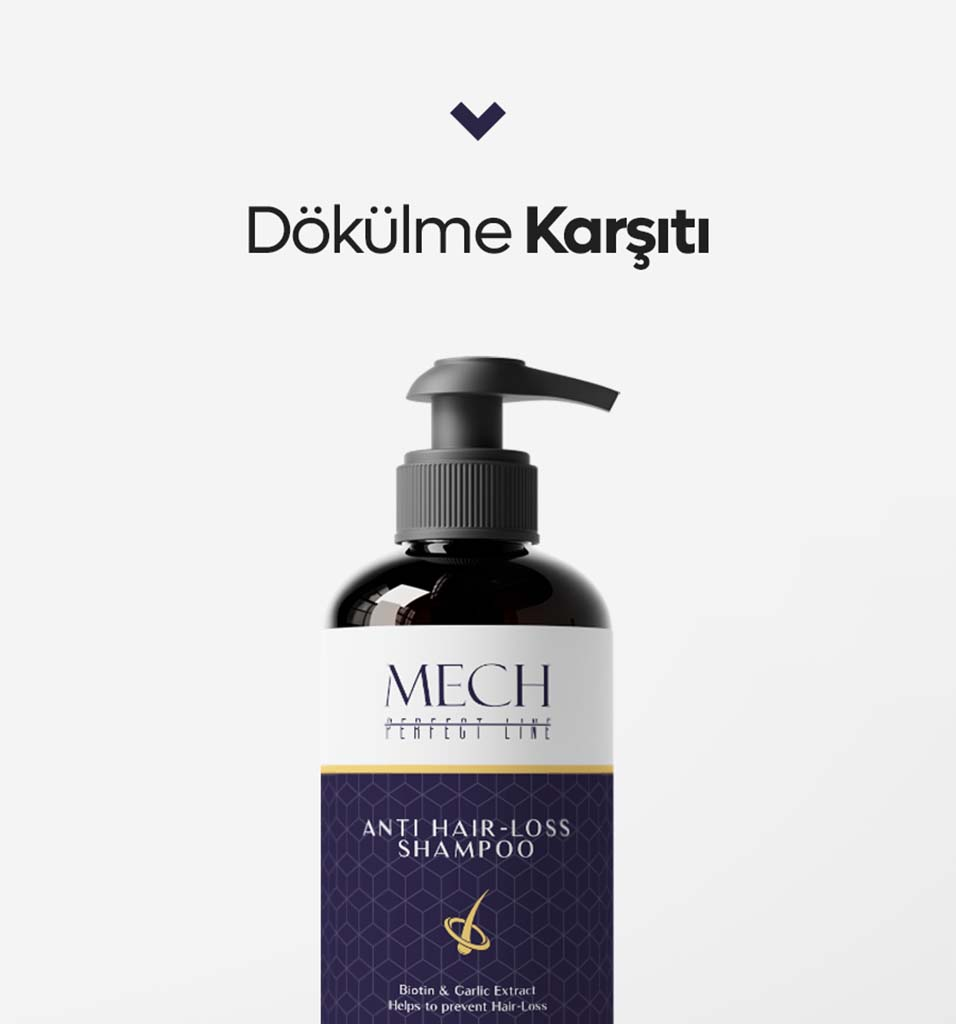
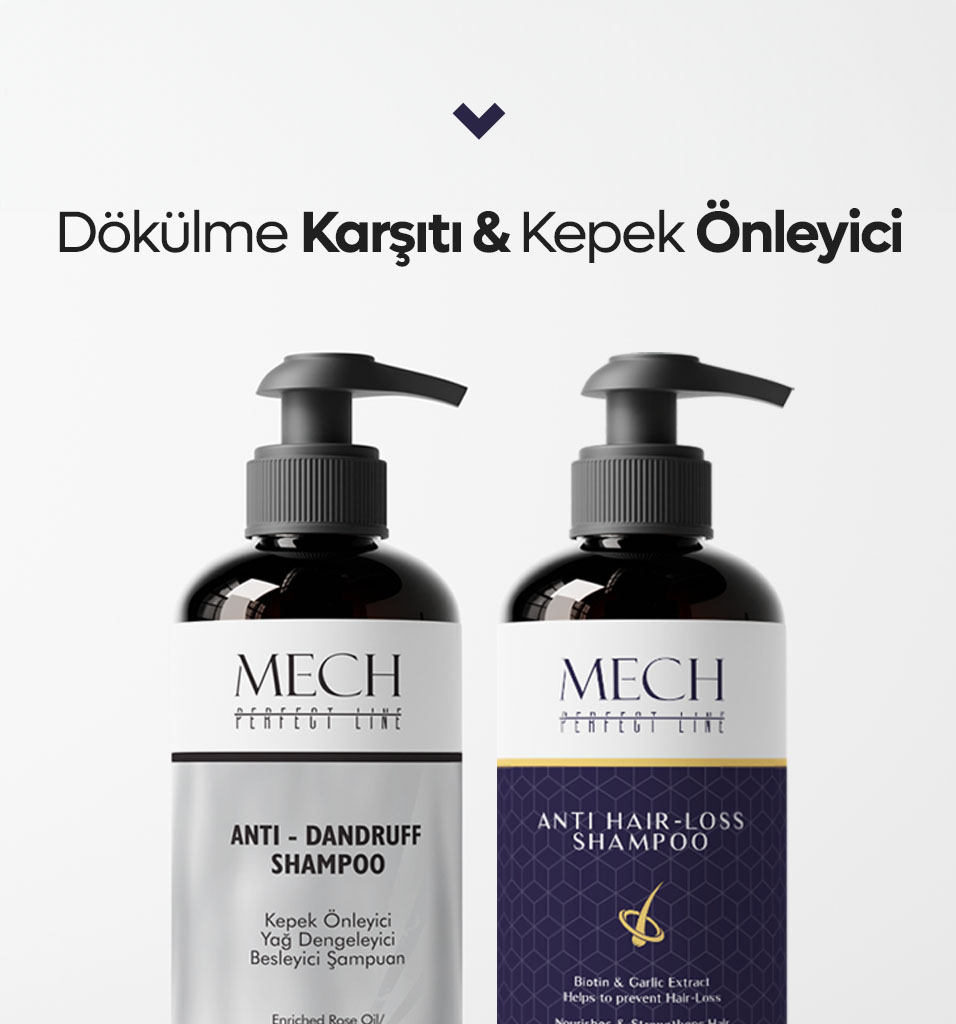
kepek karşıtı

diff --git a/kepek_karsiti.html b/kepek_karsiti.html
@@ -1,0 +1,243 @@
+<!DOCTYPE html>
+<html lang="tr">
+
+<head>
+  <meta charset="utf-8">
+  <meta http-equiv="X-UA-Compatible" content="IE=edge">
+  <meta name="viewport" content="width=device-width, initial-scale=1">
+  <meta name="description" content="">
+  <meta name="author" content="Mech Perfect Line">
+  <title>Kepek Karşıtı Şampuan - Mech Perfect Line</title>
+  <link rel="icon" type="image/x-icon" href="images/favicon.jpg">
+
+  <!-- SLIDER REVOLUTION 4.x CSS SETTINGS -->
+  <link rel="stylesheet" type="text/css" href="rs-plugin/css/settings.css" media="screen" />
+
+  <!-- Bootstrap Core CSS -->
+  <link href="css/bootstrap.min.css" rel="stylesheet">
+
+  <!-- Custom CSS -->
+  <link href="css/font-awesome.min.css" rel="stylesheet" type="text/css">
+  <link href="css/ionicons.min.css" rel="stylesheet">
+  <link href="css/main.css" rel="stylesheet">
+  <link href="css/style.css" rel="stylesheet">
+  <link href="css/responsive.css" rel="stylesheet">
+
+  <!-- JavaScripts -->
+  <script src="js/modernizr.js"></script>
+
+  <!-- Online Fonts -->
+  <link href='https://fonts.googleapis.com/css?family=Montserrat:400,700' rel='stylesheet' type='text/css'>
+  <link href='https://fonts.googleapis.com/css?family=Playfair+Display:400,700,900' rel='stylesheet' type='text/css'>
+
+  <!-- HTML5 Shim and Respond.js IE8 support of HTML5 elements and media queries -->
+  <!-- WARNING: Respond.js doesn't work if you view the page via file:// -->
+  <!--[if lt IE 9]>
+    <script src="https://oss.maxcdn.com/libs/html5shiv/3.7.0/html5shiv.js"></script>
+    <script src="https://oss.maxcdn.com/libs/respond.js/1.4.2/respond.min.js"></script>
+<![endif]-->
+
+</head>
+
+<body>
+
+  <!-- Wrap -->
+  <div id="wrap">
+
+    <!-- header -->
+    <header>
+      <div class="sticky">
+        <div class="container">
+
+          <!-- Logo -->
+          <div class="logo"> <a href="index.html"><img class="img-responsive" src="images/logo.png" alt=""></a> </div>
+          <nav class="navbar ownmenu">
+            <div class="navbar-header">
+              <button type="button" class="navbar-toggle collapsed" data-toggle="collapse" data-target="#nav-open-btn"
+                aria-expanded="false"> <span class="sr-only">Toggle navigation</span> <span class="icon-bar"><i
+                    class="fa fa-navicon"></i></span> </button>
+            </div>
+
+            <!-- NAV -->
+            <div class="collapse navbar-collapse" id="nav-open-btn">
+              <ul class="nav">
+                <li> <a href="index.html">ANA SAYFA</a> </li>
+                <li> <a href="hakkimizda.html">Hakkımızda</a> </li>
+
+                <!-- Two Link Option -->
+                <!-- MEGA MENU -->
+                <li class="dropdown megamenu active"> <a href="urunler.html" class="dropdown-toggle"
+                    data-toggle="dropdown">Ürünler</a>
+                  <div class="dropdown-menu">
+                    <div class="row">
+                      <div class="col-md-4">
+                        <div class="top-rated">
+                          <ul>
+                            <li>
+                              <div class="media-left">
+                                <div class="cart-img"> <a href="urunler.html"> <img class="media-object img-responsive"
+                                      src="images/cart-img-1.jpg" alt="..."> </a>
+                                </div>
+                              </div>
+                              <a href="urunler.html">
+                                <div class="media-body">
+                                  <h6 class="media-heading">TÜM ÜRÜNLER</h6>
+                                  <div class="stars"> <i class="fa fa-star"></i> <i class="fa fa-star"></i> <i
+                                      class="fa fa-star"></i> <i class="fa fa-star"></i> <i class="fa fa-star"></i>
+                                  </div>
+                                </div>
+                              </a>
+                            </li>
+                          </ul>
+                        </div>
+                      </div>
+                      <!-- New Arrival -->
+                      <div class="col-md-5">
+                        <h5>Mech Perfect Line<span>ŞİMDİ TRENDYOL'DA</span></h5>
+                        <img class="nav-img" src="images/nav-img.png" alt="">
+                        <p>En Yeni ürünlerimizi<br>
+                          Keşfedin.<br>
+                          <a href="https://www.trendyol.com/magaza/mech-perfect-line-m-573826?sst=0"
+                            class="btn btn-small btn-round">Trendyol</a>
+                      </div>
+                    </div>
+                  </div>
+                </li>
+                <li class="dropdown"> <a href="iletisim.html" class="dropdown-toggle"
+                    data-toggle="dropdown">İLETİŞİM</a>
+                </li>
+              </ul>
+            </div>
+          </nav>
+        </div>
+      </div>
+    </header>
+    <!--======= SUB BANNER =========-->
+    <div id="content">
+
+      <!-- Popular Products -->
+      <section class="padding-top-50 padding-bottom-100">
+        <div class="container">
+
+          <!-- SHOP DETAIL -->
+          <div class="shop-detail">
+            <div class="row">
+
+              <!-- Popular Images Slider -->
+              <div class="col-md-7">
+
+                <!-- Images Slider -->
+                <div class="images-slider" style="padding-bottom: 15vw;">
+                  <ul class="slides">
+                    <li data-thumb="images/kepekkarsiti1-1.jpg"> <img class="img-responsive"
+                        src="images/kepekkarsiti1-1.jpg" alt="">
+                    </li>
+                    <li data-thumb="images/kepekkarsiti1-2.jpg"> <img class="img-responsive"
+                        src="images/kepekkarsiti1-2.jpg" alt="">
+                    </li>
+                    <li data-thumb="images/kepekkarsiti1-3.jpg"> <img class="img-responsive"
+                        src="images/kepekkarsiti1-3.jpg" alt="">
+                    </li>
+                  </ul>
+                </div>
+              </div>
+
+              <!-- COntent -->
+              <div class="col-md-5">
+                <h4>Kepek Karşıtı Şampuan</h4>
+                <span class="price">1000 ML</span>
+                <b>Ürün Kodu: </b><span>8683690489205</span>
+                <!-- Item Detail --> <br> <br>
+                <p>MECH Perfect Line Anti-Kepek ve Yağ Dengeleyici Şampuan, kepek sorununu etkin bir şekilde çözmeye
+                  yardımcı olur.</p>
+                <!-- Short By -->
+                <div class="some-info">
+                  <ul class="row margin-top-30">
+                    <!-- ADD TO CART -->
+                    <li class="col-xs-6"> <a href="https://www.trendyol.com/sr?mid=573826&os=1" target="_blank"
+                        class="btn" style="color: white;">TRENDYOL</a> </li>
+                  </ul>
+
+                  <!-- INFOMATION -->
+                  <div class="inner-info">
+                    <h6>Kepek Karşıtı Şampuan</h6>
+                    <p>MECH Perfect Line Anti-Kepek ve Yağ Dengeleyici Şampuan, kepek sorununu etkin bir şekilde çözmeye
+                      yardımcı olurken, saçın doğal yağ dengesini düzenler. Zenginleştirilmiş gül yağı ve çay ağacı özü
+                      içeriği ile saçınızı derinlemesine besler ve sağlıklı bir görünüme kavuşturur. Uzun süreli
+                      kullanımda saç sağlığını koruyarak daha güçlü ve canlı saçlara sahip olmanızı sağlar.
+                    </p>
+                    <!-- popup görsel -->
+
+                    <button id="openPopup" style="margin-top: 50px;">ÜTS KONTROL</button>
+
+                    <div id="overlay"></div>
+
+                    <div id="popup">
+                      <img src="images/dokulmaonleyiciuts.jpg" alt="UTS">
+                    </div>
+                    <!-- Social Icons -->
+                  </div>
+                </div>
+              </div>
+            </div>
+          </div>
+          <!--======= PRODUCT DESCRIPTION =========-->
+      </section>
+      <!--======= FOOTER =========-->
+      <footer>
+        <div class="container">
+          <div class="about-footer"> <img class="margin-bottom-60" src="images/logo2.png" alt="">
+            <!-- HELPFUL LINKS -->
+            <div class="col-md-3">
+              <h6>HIZLI ERİŞİM</h6>
+              <ul class="link">
+                <li><a href="urunler.html"> Ürünler</a></li>
+                <li><a href="iletisim.html"> İletişim</a></li>
+                <li><a href="hakkimizda.html"> Hakkımızda</a></li>
+                <li><a href="index.html"> Ana Sayfa</a></li>
+              </ul>
+            </div>
+
+            <!-- SHOP -->
+            <div class="col-md-3">
+              <h6>LİNKLER</h6>
+              <ul class="link">
+                <li><a href="https://www.trendyol.com/magaza/mech-perfect-line-m-573826?sst=0"> Trendyol</a></li>
+                <li><a href="https://www.instagram.com/mechperfectline/"> Instagram</a></li>
+              </ul>
+            </div>
+            <!-- ABOUT Location -->
+            <div class="col-md-3">
+              <p><i class="icon-call-end"></i>0 (850) 309 36 09</p>
+              <p><i class="icon-envelope"></i>info@mechperfectline.com.tr</p>
+            </div>
+          </div>
+
+          <!-- Rights -->
+
+          <div class="rights">
+            <p>© 2024 Mech Perfect Line Tüm Hakları Saklıdır. <a href="https://hashtagmedya.com/"
+                style="color: yellow;">
+                @Hashtagmedya</a></p>
+            <div class="scroll"> <a href="#wrap" class="go-up"><i class="lnr lnr-arrow-up"></i></a> </div>
+          </div>
+        </div>
+      </footer>
+
+      <!--======= RIGHTS =========-->
+
+    </div>
+    <script src="js/jquery-1.11.3.min.js"></script>
+    <script src="js/bootstrap.min.js"></script>
+    <script src="js/own-menu.js"></script>
+    <script src="js/jquery.lighter.js"></script>
+    <script src="js/owl.carousel.min.js"></script>
+
+    <!-- SLIDER REVOLUTION 4.x SCRIPTS  -->
+    <script type="text/javascript" src="rs-plugin/js/jquery.tp.t.min.js"></script>
+    <script type="text/javascript" src="rs-plugin/js/jquery.tp.min.js"></script>
+    <script src="js/main.js"></script>
+    <script src="js/main.js"></script>
+</body>
+
+</html>

diff --git a/hakkimizda.html b/hakkimizda.html
@@ -120,17 +120,17 @@
             <div class="col-xs-10 center-block">
               <div class="col-sm-9 center-block">
                 <h4>Biz Kimiz?</h4>
-                <p>Meç Perfect Line, kişisel bakım alanında uzmanlaşmış bir şirkettir. Müşterilerimize güvenilir ve
+                <p>Mech Perfect Line, kişisel bakım alanında uzmanlaşmış bir şirkettir. Müşterilerimize güvenilir ve
                   yüksek kaliteli kişisel bakım ürünleri sunarak günlük yaşamlarında kendilerini daha iyi hissetmelerine
                   katkıda bulunmayı amaçlıyoruz.</p>
                 <p>Müşterilerimizin ihtiyaçlarını anlamak ve onlara en iyi hizmeti sunmak için, deneyimli ve uzman bir
                   ekip ile çalışıyoruz. Her bir ürünümüz, titiz bir kalite kontrol sürecinden geçerek, müşterilerimize
                   yüksek standartlarda ürünler sunmamızı sağlar.</p>
-                <p>Meç Perfect Line olarak, sadece müşterilerimizin güzellik ve bakım ihtiyaçlarını karşılamakla
+                <p>Mech Perfect Line olarak, sadece müşterilerimizin güzellik ve bakım ihtiyaçlarını karşılamakla
                   kalmayıp, aynı zamanda çevreye duyarlılığımızı da ön planda tutuyoruz. Sürdürülebilirlik ve doğa dostu
                   üretim ilkeleri doğrultusunda hareket ederek, çevreye olan etkimizi en aza indirmeye çalışıyoruz.</p>
                 <p>Müşterilerimize en iyi ürünleri sunmak ve onların yaşamlarını güzelleştirmek için çalışmaya devam
-                  ediyoruz. Meç Perfect Line, sizin için her zaman en iyisini sunmak için burada!</p>
+                  ediyoruz. Mech Perfect Line, sizin için her zaman en iyisini sunmak için burada!</p>
                 <br>
                 <br>
                 <h4>Neden Mech Perfect Line?</h4>
@@ -148,7 +148,7 @@
                   <h2>Doğanın Gücü Güzelliğinizde!</h2>
                 </div>
                 <div class="col-lg-7">
-                  <p> <br>Meç Perfect Line'in arkasında, tutkulu ve özverili bir ekip var. Müşteri hizmetlerimizden,
+                  <p> <br>Mech Perfect Line'in arkasında, tutkulu ve özverili bir ekip var. Müşteri hizmetlerimizden,
                     ürün
                     geliştirme ekibimize kadar, herkes aynı hedef için çalışıyor: Sizi mutlu etmek! Bizim için, işimizin
                     en güzel yanı, sizinle bağ kurmak ve sizinle birlikte büyümek.

diff --git a/urunler.html b/urunler.html
@@ -232,7 +232,7 @@
 						<span class="filter-item" data-filter="hacim">HACİMLENDİRİCİ</span>
 						<span class="filter-item" data-filter="keci">KEÇİ SÜTÜ</span>
 						<span class="filter-item" data-filter="keratin">KERATİN</span>
-						<span class="filter-item" data-filter="dokk">DÖKÜLME KARŞITI</span>
+						<span class="filter-item" data-filter="dokk">DÖKÜLME VE KEPEK KARŞITI</span>
 						<span class="filter-item" data-filter="tonik">TONİK</span>
 						<span class="filter-item" data-filter="peel">PEELİNG</span>
 						<span class="filter-item" data-filter="sakal">SAKAL BAKIMI</span>
@@ -278,7 +278,7 @@
 				</div>
 				<div class="gallery-item dokk hide" data-id="item2" style="width: 100%;">
 					<div class="gallery-item-inner">
-						<div class="urunbaslik" style="color:#5b4e88;">Dökülme Karşıtı Şampuan Serisi</div>
+						<div class="urunbaslik" style="color:#5b4e88;">Dökülme ve Kepek Karşıtı Şampuan Serisi</div>
 						<div class="urunalt"><b>Biotin ve sarımsak özü: </b>saç dökülmesine karşı etkilidir. Dökülen
 							saşların
 							tekrar çıkmasını destekler. Saç köklerini güçlendirir. Sağlıklı saç uzamasını sağlar. Saça
@@ -432,6 +432,16 @@
 			<a href="dokulme_karsiti.html">
 				<img src="images/urun18.jpg" alt="DÖKÜLME KARŞITI ŞAMPUAN">
 				<div class="item-name">DÖKÜLME KARŞITI ŞAMPUAN
+			</a>
+			<p>1000 ML</p>
+		</div>
+	</div>
+	</div>
+	<div class="gallery-item dokk">
+		<div class="gallery-item-inner">
+			<a href="kepek_karsiti.html">
+				<img src="images/urun21.jpg" alt="DÖKÜLME KARŞITI ŞAMPUAN">
+				<div class="item-name">KEPEK KARŞITI ŞAMPUAN
 			</a>
 			<p>1000 ML</p>
 		</div>
